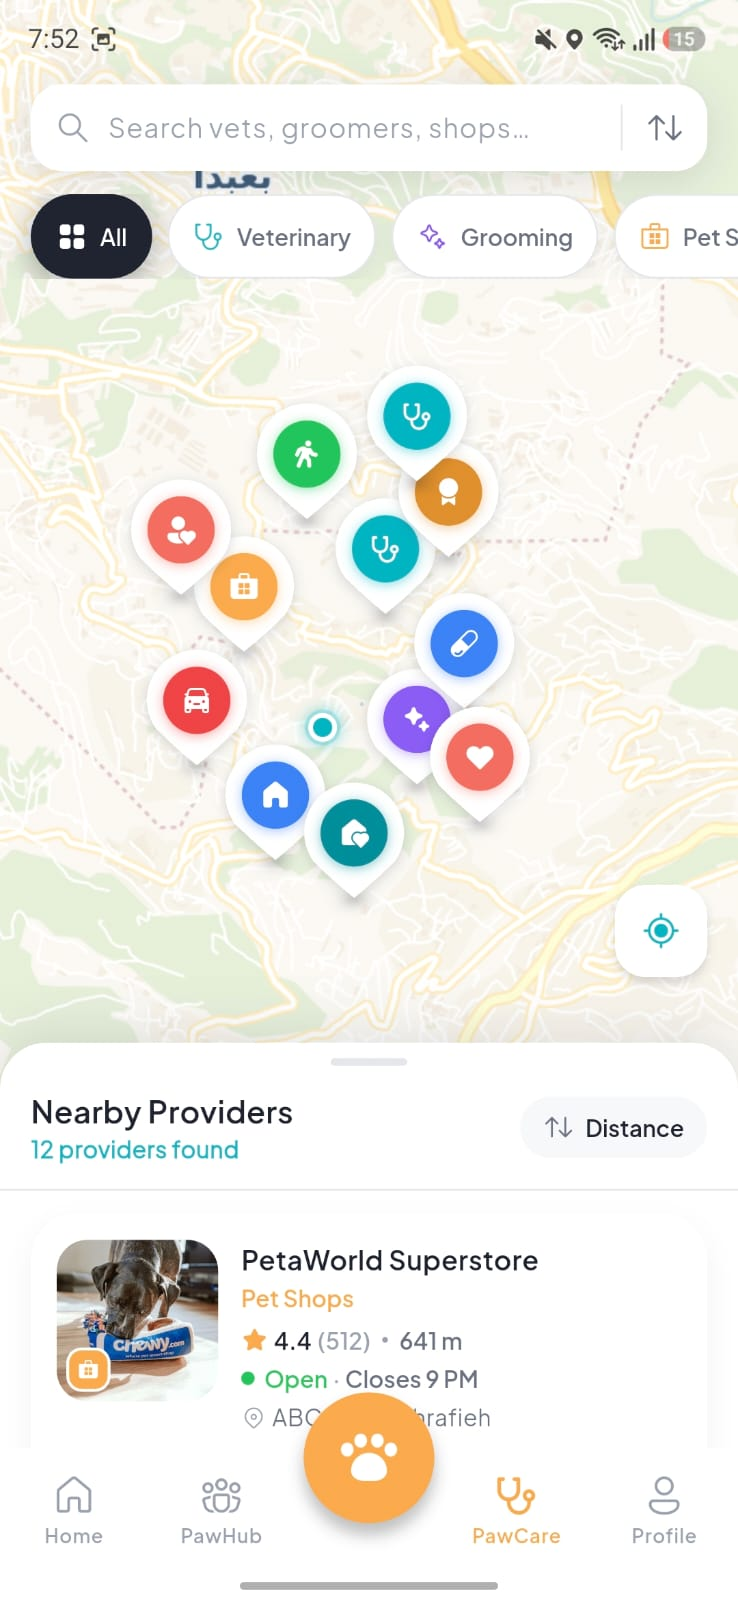
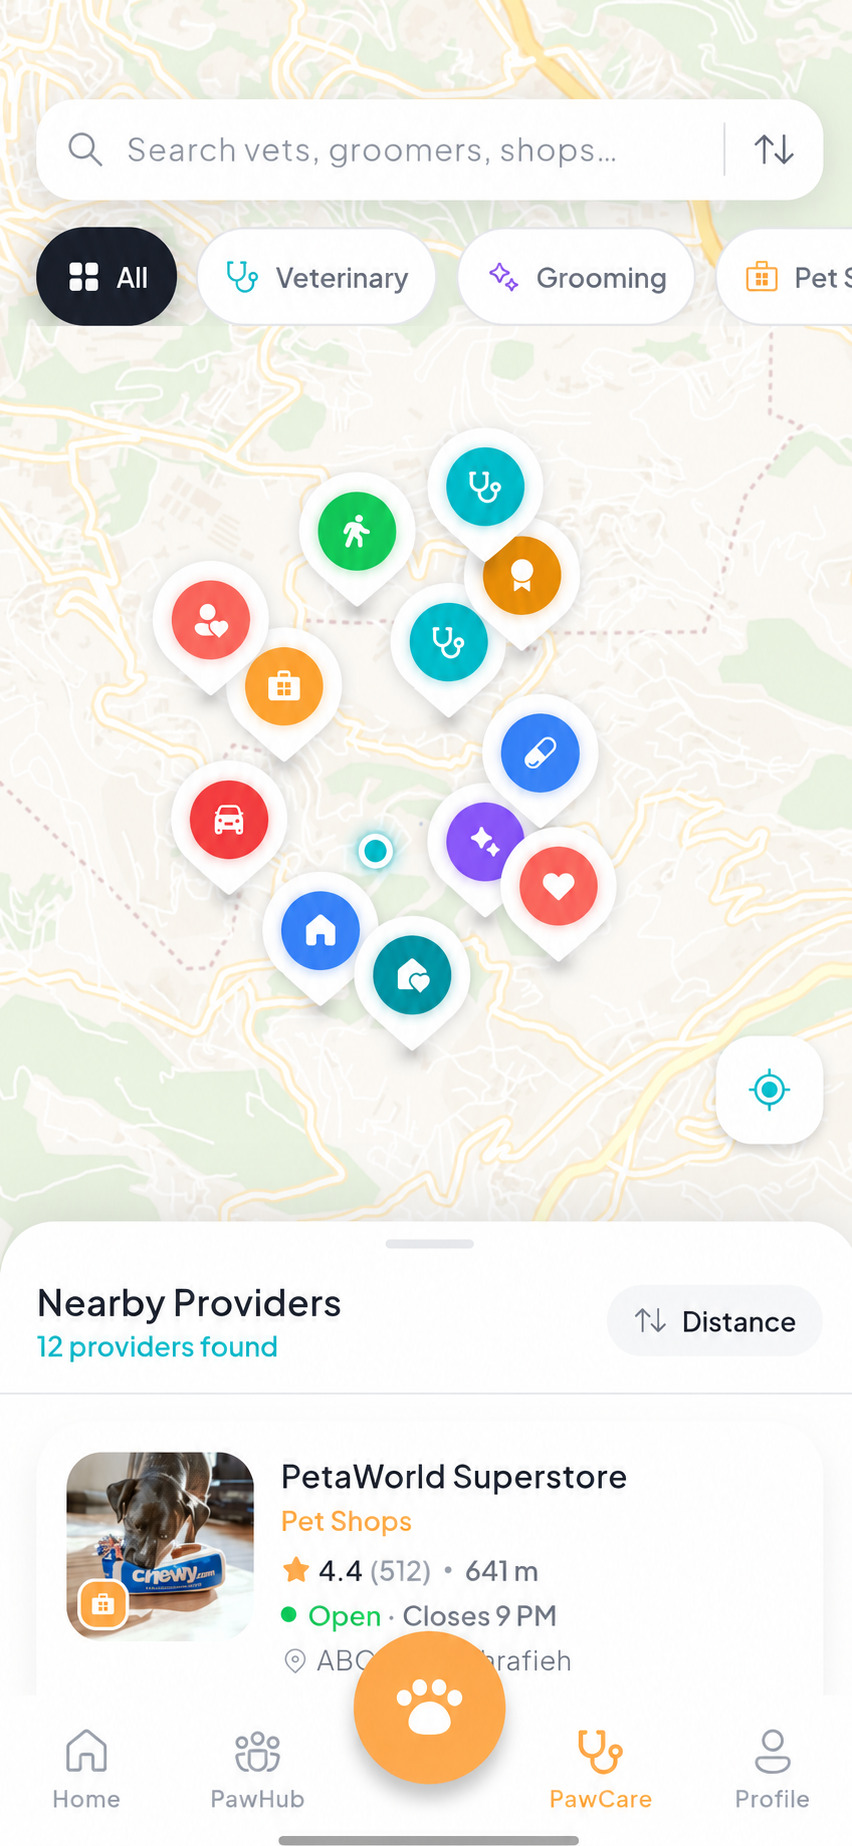
initial fixes

diff --git a/src/sections/landing/Hero.tsx b/src/sections/landing/Hero.tsx
@@ -12,7 +12,7 @@ export function Hero() {
       <div className="pointer-events-none absolute -right-40 -top-40 h-96 w-96 rounded-full bg-paw-orange-light blur-3xl" />
       <div className="pointer-events-none absolute -left-32 top-96 h-72 w-72 rounded-full bg-paw-teal-light blur-3xl" />
 
-      <Container className="relative grid items-center gap-14 pb-20 lg:grid-cols-2 lg:gap-8">
+      <Container className="relative grid items-center gap-14 pb-20 lg:grid-cols-2 lg:gap-20 xl:gap-28">
         <div className="flex flex-col items-start gap-6">
           <span className="inline-flex items-center gap-2 rounded-full bg-paw-orange-light px-4 py-1.5 text-xs font-bold uppercase tracking-wide text-paw-orange-dark">
             <PawPrint className="h-3.5 w-3.5" />
@@ -44,9 +44,8 @@ export function Hero() {
             </Button>
           </div>
 
-          <div className="mt-4 grid w-full grid-cols-3 gap-6 border-t border-border pt-6">
-            <Stat value="4" label={t("hero.statPets")} />
-            <Stat value="12+" label={t("hero.statProviders")} />
+          <div className="mt-4 grid w-full grid-cols-2 gap-6 border-t border-border pt-6">
+            <Stat value="12" label={t("hero.statSpecies")} />
             <Stat value="3" label={t("hero.statLanguages")} />
           </div>
         </div>
@@ -54,7 +53,7 @@ export function Hero() {
         <div className="relative flex justify-center">
           <div className="absolute -inset-x-10 top-10 h-[420px] rounded-[3rem] bg-gradient-to-b from-paw-orange to-paw-orange-dark/80 sm:-inset-x-16" />
           <PhoneFrame
-            src="/assets/screens/home.jpeg"
+            src="/assets/screens/home.jpg"
             alt="Petaverse home screen showing a pet's health score, nutrition and activity"
             className="relative z-10 w-[260px] sm:w-[280px]"
           />

diff --git a/src/sections/landing/Showcase.tsx b/src/sections/landing/Showcase.tsx
@@ -4,11 +4,11 @@ import { SectionHeading } from "@/components/common/SectionHeading";
 import { PhoneFrame } from "@/components/common/PhoneFrame";
 
 const SCREENS = [
-  { src: "/assets/screens/home.jpeg", alt: "Home dashboard with health score and activity" },
+  { src: "/assets/screens/home.jpg", alt: "Home dashboard with health score and activity" },
   { src: "/assets/screens/pawcare-map.jpeg", alt: "Map of nearby vets, groomers and pet shops" },
   { src: "/assets/screens/pawbot.jpeg", alt: "PawBot assistant chat giving nutrition advice" },
-  { src: "/assets/screens/adoption.jpeg", alt: "Adoption listing for a dog available near you" },
-  { src: "/assets/screens/profile.jpeg", alt: "Pet profiles and account settings" },
+  { src: "/assets/screens/adoption.jpg", alt: "Adoption listing for a dog available near you" },
+  { src: "/assets/screens/pawhub.jpg", alt: "Pet social feed inside PetaHub" },
 ];
 
 export function Showcase() {

diff --git a/src/sections/landing/PawCareHighlight.tsx b/src/sections/landing/PawCareHighlight.tsx
@@ -12,8 +12,8 @@ export function PawCareHighlight() {
       <Container className="grid items-center gap-14 lg:grid-cols-2">
         <div className="order-2 flex justify-center lg:order-1">
           <PhoneFrame
-            src="/assets/screens/pawcare-map.jpeg"
-            alt="PawCare map showing nearby veterinary and grooming providers"
+            src="/assets/screens/home.jpg"
+            alt="PawCare health dashboard showing pet health score, nutrition and activity"
             className="w-[240px] sm:w-[260px]"
           />
         </div>

diff --git a/src/components/layout/Footer.tsx b/src/components/layout/Footer.tsx
@@ -12,7 +12,7 @@ export function Footer() {
         <div className="flex flex-col justify-between gap-8 sm:flex-row">
           <div className="max-w-sm">
             <div className="flex items-center gap-2.5">
-              <img src="/assets/brand/paw-mark.svg" alt="" className="h-8 w-8" />
+              <img src="/assets/brand/logo.png" alt="" className="h-8 w-auto" />
               <span className="font-heading text-lg font-bold text-foreground">
                 {t("common:appName")}
               </span>

diff --git a/src/components/layout/Navbar.tsx b/src/components/layout/Navbar.tsx
@@ -27,9 +27,9 @@ export function Navbar() {
       <Container className="flex h-20 items-center justify-between">
         <a href="#top" className="flex items-center gap-2.5">
           <img
-            src="/assets/brand/paw-mark.svg"
+            src="/assets/brand/logo.png"
             alt=""
-            className="h-9 w-9"
+            className="h-9 w-auto"
           />
           <span className="font-heading text-xl font-bold text-foreground">
             {t("common:appName")}

diff --git a/src/sections/landing/CommunityHighlight.tsx b/src/sections/landing/CommunityHighlight.tsx
@@ -32,8 +32,8 @@ export function CommunityHighlight() {
 
         <div className="flex justify-center">
           <PhoneFrame
-            src="/assets/screens/profile.jpeg"
-            alt="Pet profiles inside PawHub"
+            src="/assets/screens/pawhub.jpg"
+            alt="Pet profiles inside PetaHub"
             className="w-[240px] sm:w-[260px]"
           />
         </div>

diff --git a/src/constants/nav.ts b/src/constants/nav.ts
@@ -5,7 +5,7 @@ export interface NavLink {
 
 export const NAV_LINKS: NavLink[] = [
   { label: "Features", href: "#features" },
-  { label: "PawHub", href: "#community" },
-  { label: "PawCare", href: "#pawcare" },
+  { label: "PetaHub", href: "#community" },
+  { label: "PetaCare", href: "#pawcare" },
   { label: "How it works", href: "#how-it-works" },
 ];

diff --git a/index.html b/index.html
@@ -2,7 +2,7 @@
 <html lang="en">
   <head>
     <meta charset="UTF-8" />
-    <link rel="icon" type="image/svg+xml" href="/favicon.svg" />
+    <link rel="icon" type="image/png" href="/assets/brand/logo.png" />
     <meta name="viewport" content="width=device-width, initial-scale=1.0" />
     <meta
       name="description"
